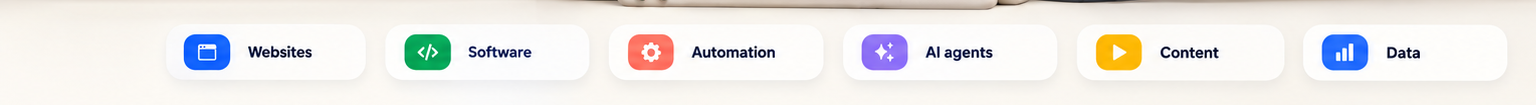
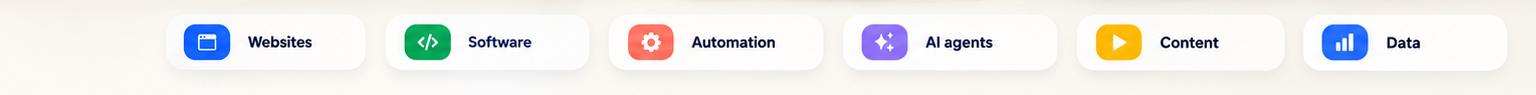
Fix seam line and gap between hero machine and service pills
The service-pills.png crop had a ~9px dark bleed line baked into its
top edge (from the source screenshot's card shadow), which rendered
as a visible seam between the machine image and the pills row. Crops
the bleed out and tightens the section spacing to match the reference
layout, where the two sit close together with no visible divider.

diff --git a/src/components/home/ServicePills.tsx b/src/components/home/ServicePills.tsx
@@ -4,12 +4,12 @@ import { services } from "@/content/services";
 
 export function ServicePills() {
   return (
-    <nav aria-label="Services" className="relative mb-4">
+    <nav aria-label="Services" className="relative">
       <Image
         src="/images/service-pills.png"
         alt=""
         width={1536}
-        height={105}
+        height={95}
         className="h-auto w-full"
       />
       <ul className="absolute inset-0 flex">

diff --git a/src/components/home/HeroMachineSection.tsx b/src/components/home/HeroMachineSection.tsx
@@ -6,10 +6,10 @@ export function HeroMachineSection() {
   return (
     <div className="bg-ivory">
       <Hero />
-      <div className="container-lab pb-10">
+      <div className="container-lab pb-4">
         <WorkflowMachine />
       </div>
-      <div className="container-lab hidden lg:block">
+      <div className="container-lab hidden pb-4 lg:block">
         <ServicePills />
       </div>
     </div>
